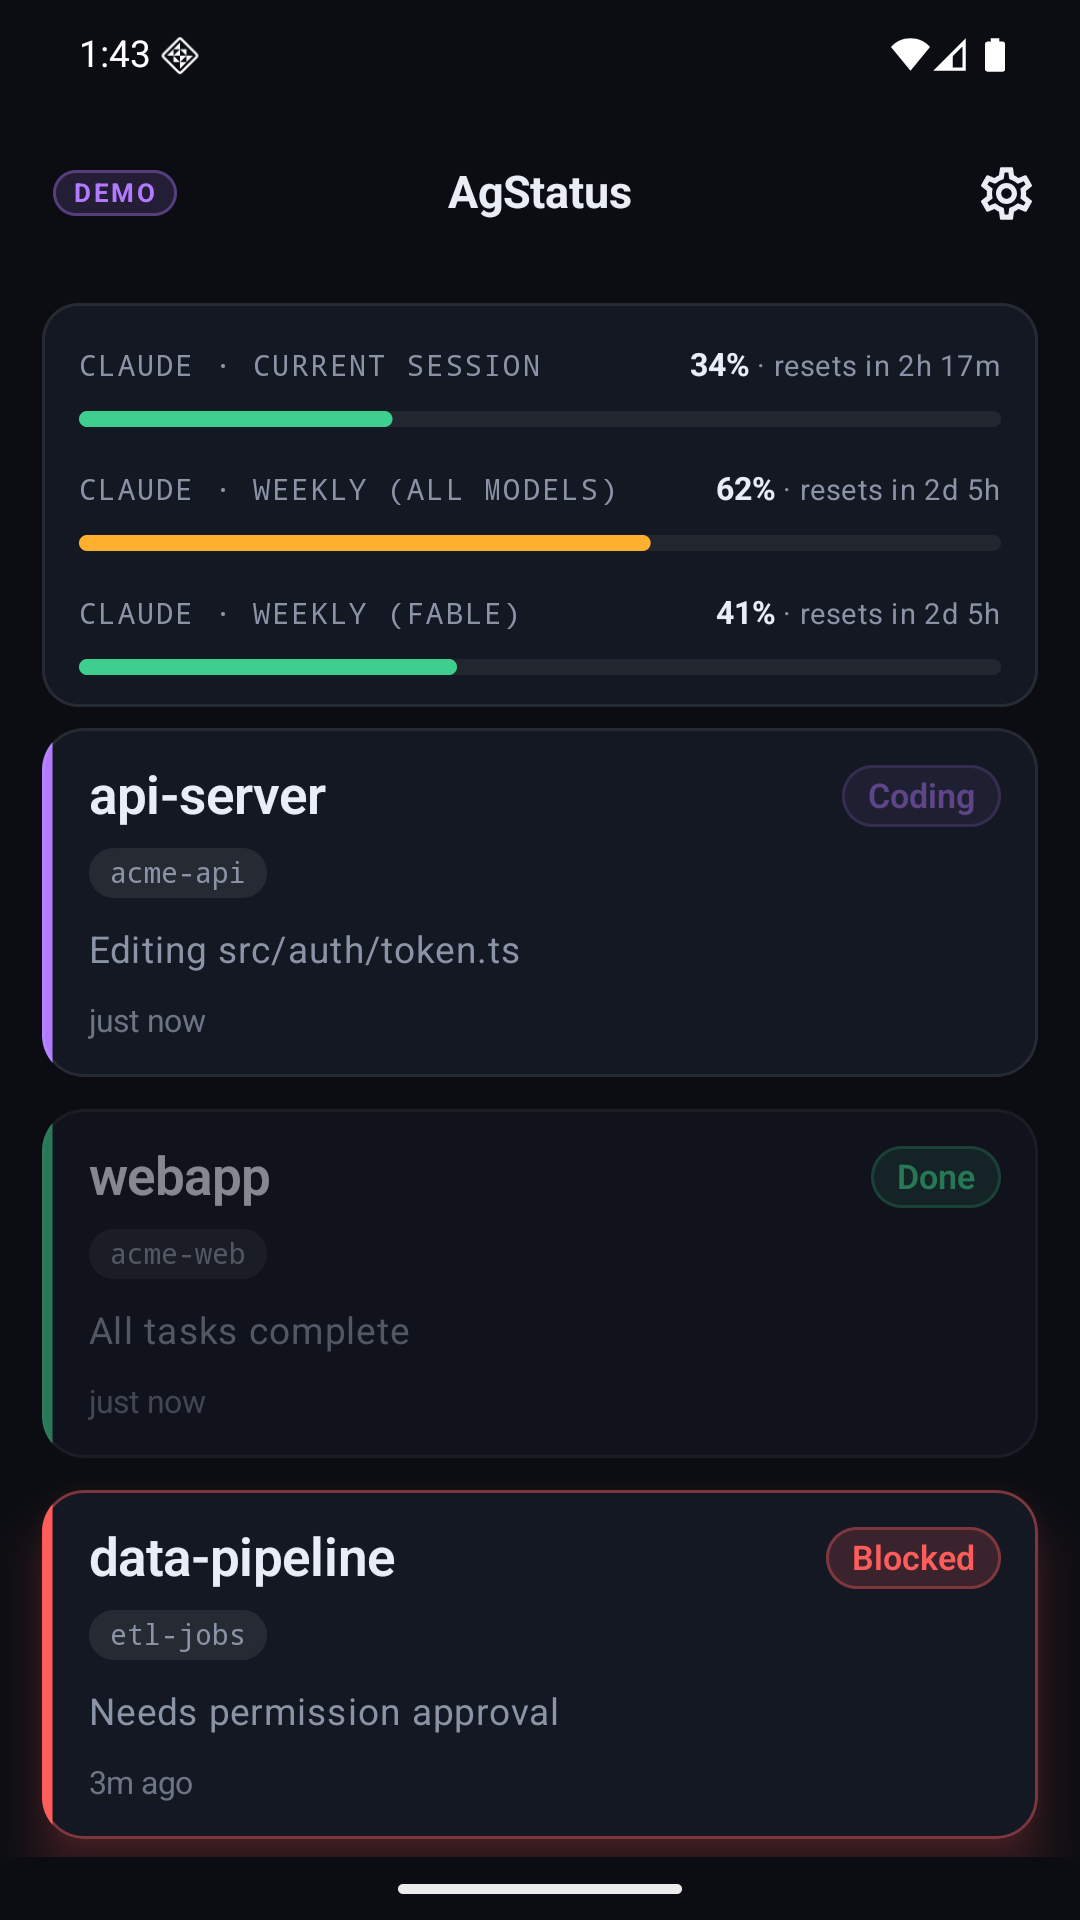
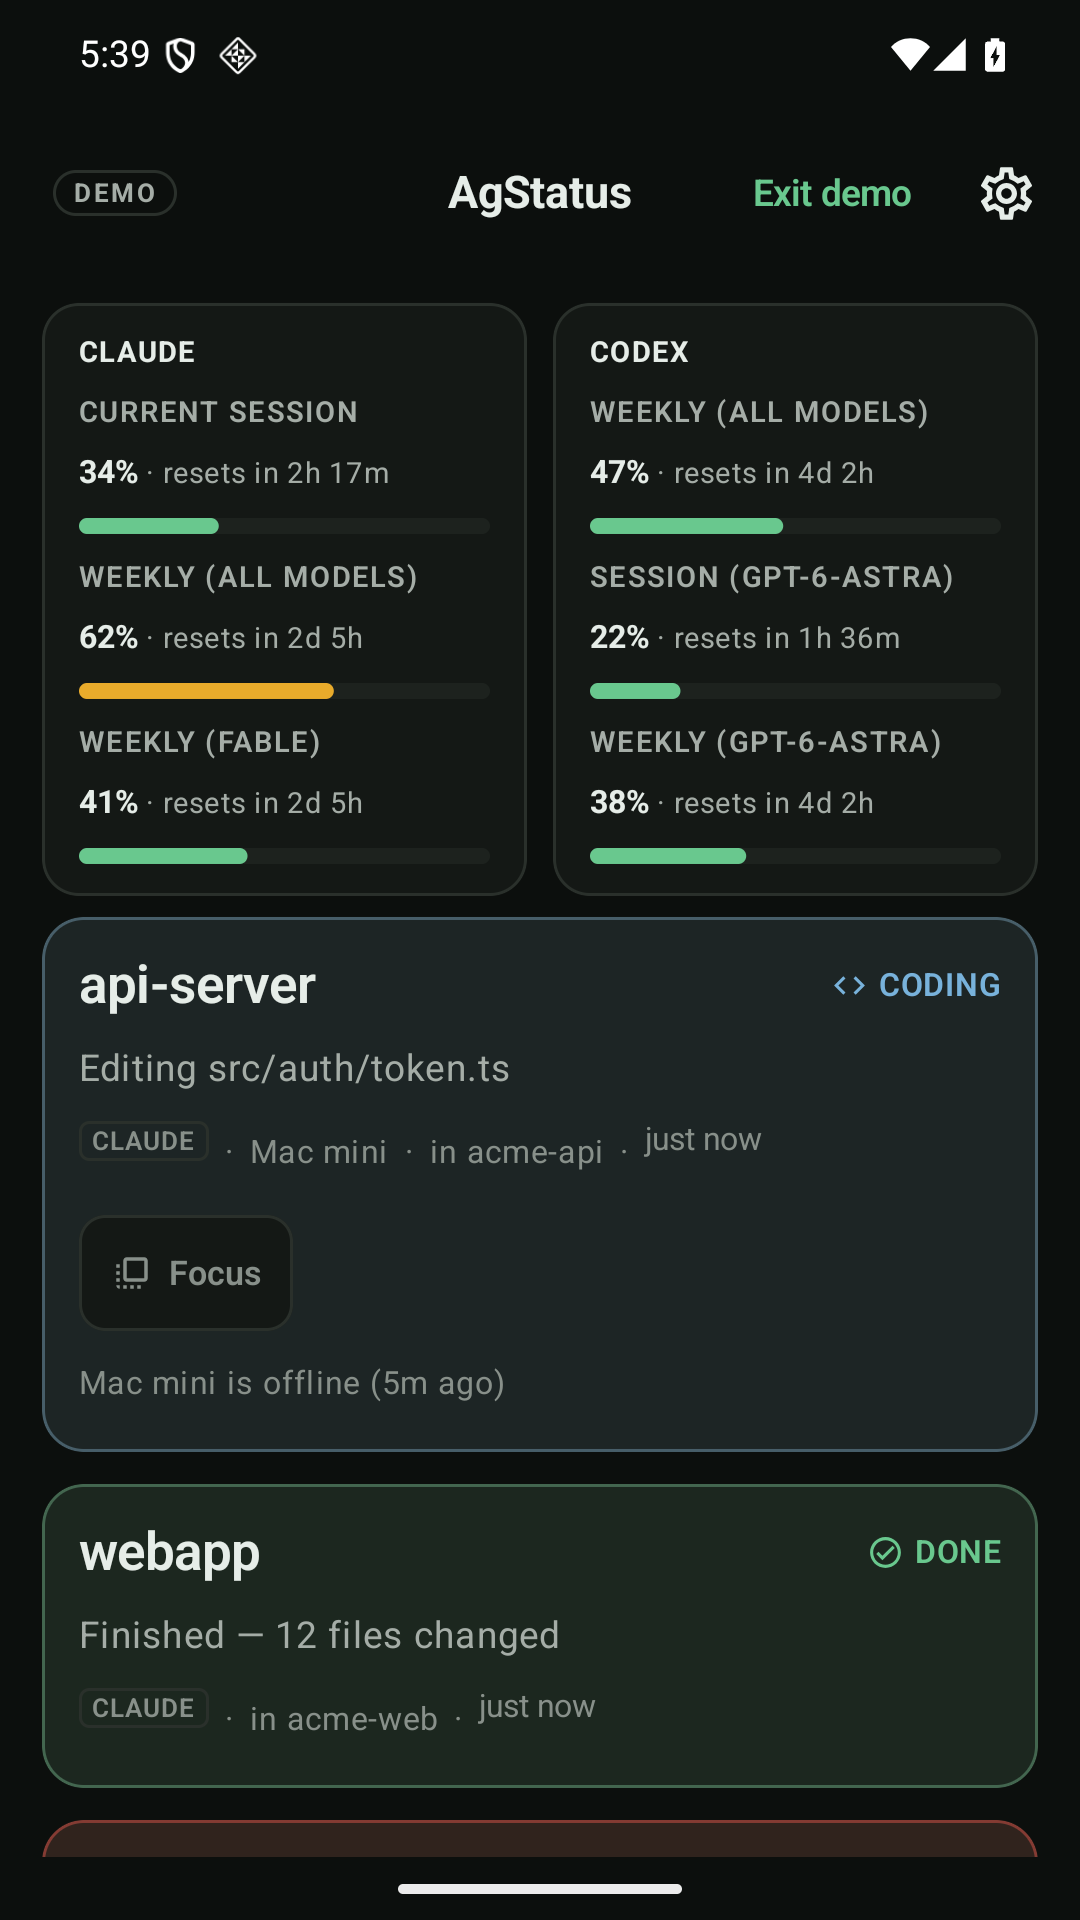
Play screenshots, recaptured against the build that will be submitted
The three in the listing were of the palette this project retired: a near-black
ground, a 4dp coloured stripe down each card, a tinted status pill, no marks.
Play rejects listings whose images do not show the app as submitted, and the
redesign changed every surface of it.

Captured from CI's APK on the emulator the README documents, in demo mode, at
the 1080×1920 Play requires.

diff --git a/distribution/google-play/README.md b/distribution/google-play/README.md
@@ -91,8 +91,8 @@ adb install /tmp/apk/app-debug.apk
 
 | # | File | Shows |
 | --- | --- | --- |
-| 1 | `01-board.png` | The live board: plan-limit bars and sessions across coding, done, and blocked |
-| 2 | `02-history.png` | A session timeline, every status change timestamped |
+| 1 | `01-board.png` | The live board: plan-limit bars, a coding session with its Focus control and why it is disabled, a finished one, and the next card beginning |
+| 2 | `02-history.png` | A session timeline: every status change with its mark, its message and its time |
 | 3 | `03-welcome.png` | Setup options and demo mode — no account required |
 
 To regenerate:
